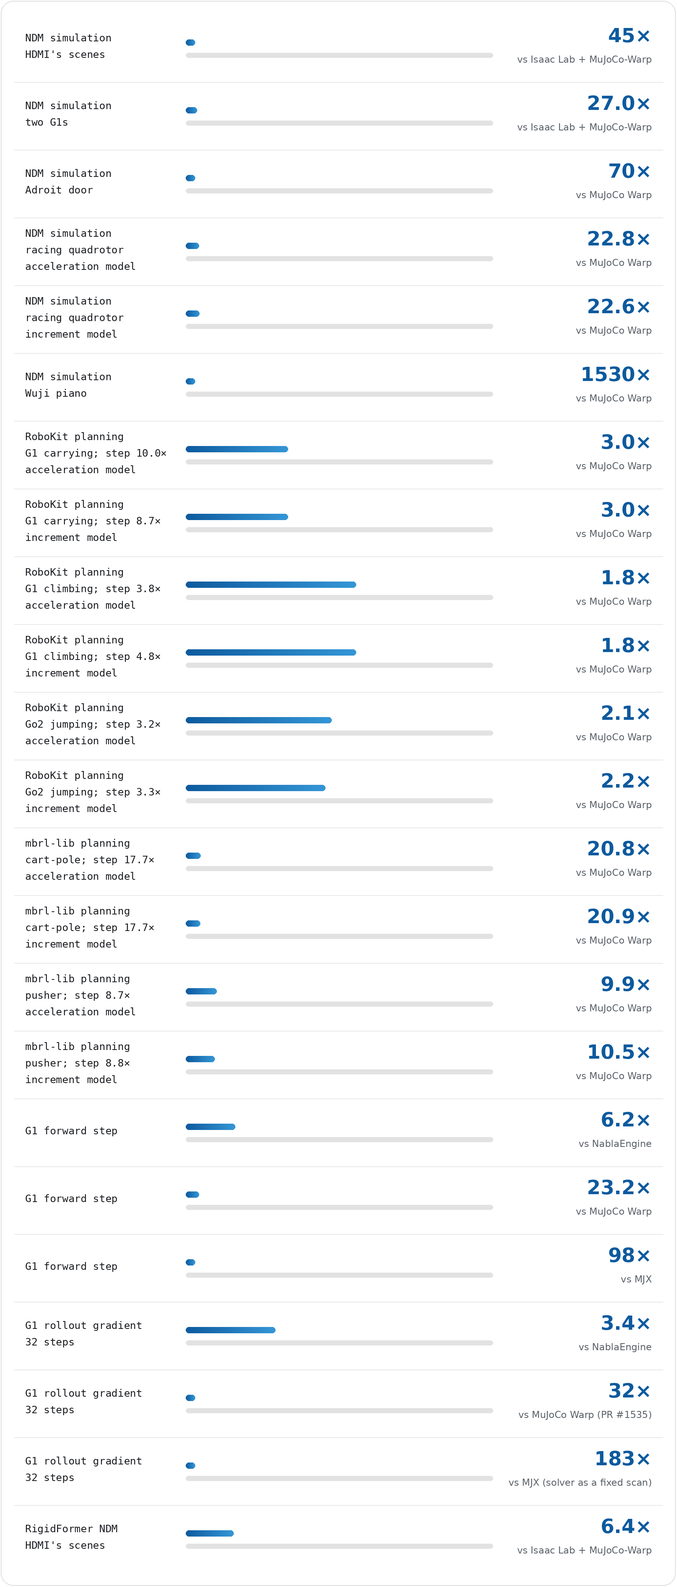
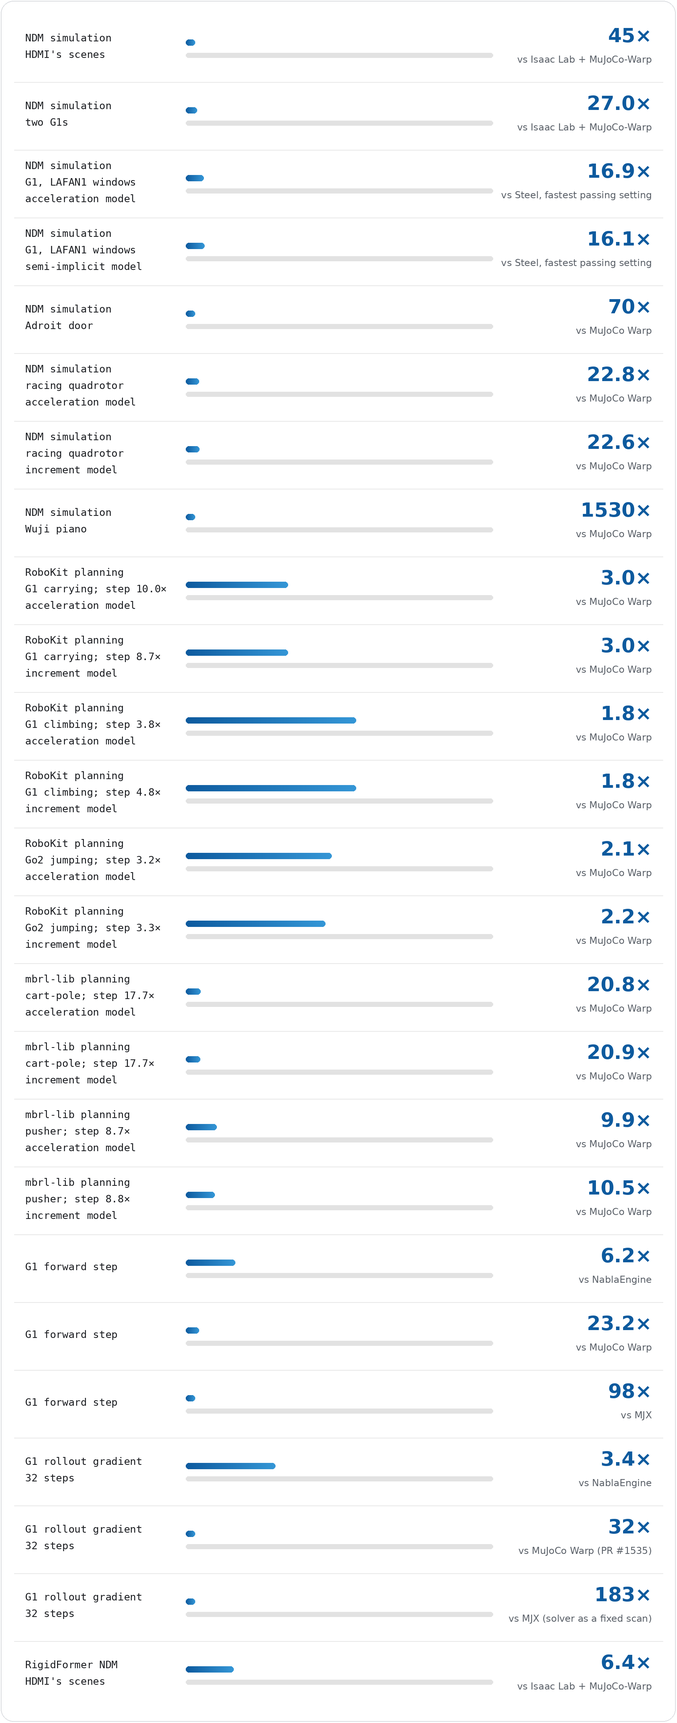
Steel: the G1's world models against Steel and MuJoCo Warp on one and four A100s. benchmarks/steel/results.md: every row's median and range with the body error beside it, the largest batches, four GPUs, where the time goes, the setup, and how to reproduce it with the weights on Hugging Face and thei

diff --git a/tools/make_speedup_chart.py b/tools/make_speedup_chart.py
@@ -9,7 +9,9 @@ import sys
 from PIL import Image, ImageDraw, ImageFont
 
 FONT_DIR = "/usr/share/fonts/truetype/dejavu/"
-# (label, second line, speedup, baseline): 4,096 parallel worlds in every row (benchmarks/ndm_speed/results.md, benchmarks/g1_boxing/results.md)
+# (label, second line, speedup, baseline): 4,096 parallel worlds in every row (benchmarks/ndm_speed/results.md, benchmarks/g1_boxing/results.md;
+# the G1 on LAFAN1's replay windows: SuperTrack's acceleration MLP and SuperMimic's semi-implicit MLP as bf16 copies with the fused step
+# against Steel's fastest setting that passes the accuracy criteria, medians of three runs, benchmarks/steel/results.md)
 # but the Adroit door's, at 16,384 worlds, SuperTrack's model as a bf16 copy against MuJoCo Warp (benchmarks/adroit_door/results_a100.md),
 # the racing quadrotor's: the fused step in fp32 with the network as one kernel, on the acceleration and on the increment model, against MuJoCo Warp
 # (benchmarks/quadrotor_racing_tracking/results_a100.md),
@@ -24,6 +26,8 @@ FONT_DIR = "/usr/share/fonts/truetype/dejavu/"
 ROWS = [
     ("NDM simulation", "HDMI's scenes", 45.3, "vs Isaac Lab + MuJoCo-Warp"),
     ("NDM simulation", "two G1s", 27.0, "vs Isaac Lab + MuJoCo-Warp"),
+    ("NDM simulation", "G1, LAFAN1 windows\nacceleration model", 16.9, "vs Steel, fastest passing setting"),
+    ("NDM simulation", "G1, LAFAN1 windows\nsemi-implicit model", 16.1, "vs Steel, fastest passing setting"),
     ("NDM simulation", "Adroit door", 69.7, "vs MuJoCo Warp"),
     ("NDM simulation", "racing quadrotor\nacceleration model", 22.8, "vs MuJoCo Warp"),
     ("NDM simulation", "racing quadrotor\nincrement model", 22.6, "vs MuJoCo Warp"),

diff --git a/benchmarks/steel/results.md b/benchmarks/steel/results.md
@@ -1,0 +1,222 @@
+# The G1's world models against Steel
+
+A world model steps a whole batch of robots with one network pass. A GPU rigid-body solver computes, for every world and
+every substep, the robot's kinematics and dynamics, its collisions and its contact constraints. On the Unitree G1
+replaying LAFAN1 tracking, at 4,096 worlds on one A100 40GB SXM4:
+
+- **Throughput.** The MLP world models of `lafan1-supertrack-accurate` and `lafan1-supermimic-accurate` step 14.80 M and
+  14.06 M control steps per second. That is 16.9x and 16.1x [Steel](https://www.skild.ai/blogs/steel) (Skild AI's solver in
+  Newton) at its fastest setting that passes the accuracy criteria below (0.875 M), and 42.4x and 40.2x MuJoCo Warp in
+  Isaac Lab, the task's simulator (0.349 M).
+- **Error.** After 32 control steps, their tracked bodies are 19.6 and 22.8 mm from the task's simulator, and Steel's are
+  30.2 mm.
+- **Where the time goes.** Steel spends 47.5 % of its kernel time on articulation dynamics, 25.9 % on collision and 20.3 %
+  on contact rows. The world models spend 80 % on the network.
+
+The world models learned from the task's simulator; Steel did not. Its error is its difference from that simulator.
+Skild AI's post reports Steel's speed against PhysX and MuJoCo Warp over 20 Isaac Lab tasks; this page measures one
+workload, with Steel's accuracy checked beside its speed.
+
+## One GPU
+
+Control steps per second over all worlds, in millions: the median of three runs, their range in parentheses. The body
+error is the tracked bodies' position error after 32 control steps, against the task's simulator.
+
+| row | body error | N = 1,024 | N = 4,096 | N = 16,384 | N = 65,536 |
+|---|---|---|---|---|---|
+| `lafan1-supertrack-accurate`'s world model (acceleration MLP), bf16 copy with the fused step | 19.6 mm | 5.18 (5.17–5.19) | 14.80 (14.79–14.84) | 23.42 (23.38–23.44) | 27.22 (27.20–27.31) |
+| `lafan1-supermimic-accurate`'s world model (semi-implicit MLP), bf16 copy with the fused step | 22.8 mm | 5.21 (5.19–5.28) | 14.06 (14.05–14.12) | 22.90 (22.88–22.94) | 27.05 (26.97–27.11) |
+| `lafan1-supertrack-accurate`'s world model, as trained (compiled) | 19.6 mm | 5.15 (5.10–5.23) | 13.32 (13.30–13.32) | 22.23 (22.21–22.24) | 26.77 (26.73–26.79) |
+| `lafan1-supermimic-accurate`'s world model, as trained (compiled) | 22.8 mm | 5.06 (5.03–5.15) | 11.98 (11.98–11.99) | 21.11 (21.09–21.11) | 26.25 (26.19–26.29) |
+| Steel, fastest passing setting (4 substeps, 1 iteration, its speed options) | 30.2 mm | 0.363 (0.363–0.363) | 0.875 (0.875–0.876) | 1.037 (1.037–1.037) | 1.015 (1.014–1.016) |
+| Steel at the task's physics (4 substeps, 12 iterations) | 24.9 mm | 0.076 (0.076–0.076) | 0.191 (0.191–0.191) | 0.282 (0.282–0.282) | 0.282 (0.282–0.283) |
+| Steel's G1 preset at a 20 ms step (1 substep, 2 iterations; fails the criteria) | 59.7 mm | 0.440 (0.440–0.440) | 1.055 (1.055–1.056) | 1.495 (1.494–1.495) | 1.391 (1.385–1.392) |
+| MuJoCo Warp 3.17 in Newton, on Steel's model at the task's settings | 0.20 mm | 0.170 (0.170–0.170) | 0.357 (0.357–0.357) | 0.473 (0.473–0.473) | 0.514 (0.513–0.514) |
+| MuJoCo Warp 3.15 in Isaac Lab 3, the task's simulator | the reference | 0.164 (0.164–0.164) | 0.349 (0.349–0.349) | 0.467 (0.467–0.467) | 0.513 (0.513–0.513) |
+
+The fastest paths against Steel's fastest passing setting / MuJoCo Warp in Isaac Lab, at equal N:
+
+| world model | N = 1,024 | N = 4,096 | N = 16,384 | N = 65,536 |
+|---|---|---|---|---|
+| `lafan1-supertrack-accurate` | 14.3x / 31.5x | 16.9x / 42.4x | 22.6x / 50.1x | 26.8x / 53.1x |
+| `lafan1-supermimic-accurate` | 14.4x / 31.7x | 16.1x / 40.2x | 22.1x / 49.0x | 26.6x / 52.8x |
+
+- **Steel against MuJoCo Warp.** Steel's fastest passing setting runs 2.0-2.5x MuJoCo Warp in Isaac Lab, its error after
+  32 steps 30.2 mm. At the task's physics, Steel runs 0.5-0.6x of it, with 24.9 mm.
+- **The two MLPs are close.** SuperTrack's is up to 5.3 % faster (4,096 worlds) and SuperMimic's 0.5 % faster at 1,024
+  worlds.
+
+## The largest batches
+
+From 131,072 worlds, the batch doubled until a run failed; medians in millions (range):
+
+| world model, fastest path | N = 131,072 | N = 262,144 | N = 524,288 | N = 1,048,576 | N = 2,097,152 |
+|---|---|---|---|---|---|
+| `lafan1-supertrack-accurate` | 27.95 (27.94–27.99) | 28.16 (28.13–28.17) | 28.16 (28.14–28.19) | 28.09 (28.08–28.11) | 28.00 (27.99–28.02) |
+| `lafan1-supermimic-accurate` | 27.59 (27.59–27.64) | 27.90 (27.89–27.91) | 27.95 (27.91–27.99) | 27.91 (27.89–27.92) | 27.83 (27.82–27.84) |
+
+Each row at its own peak:
+
+| row | peak (its N) | against Steel's peak | against MuJoCo Warp's peak |
+|---|---|---|---|
+| `lafan1-supertrack-accurate` | 28.16 M (524,288) | 27.2x | 54.9x |
+| `lafan1-supermimic-accurate` | 27.95 M (524,288) | 27.0x | 54.5x |
+| Steel, fastest passing setting | 1.037 M (16,384) | | 2.0x |
+| MuJoCo Warp in Isaac Lab | 0.513 M (65,536) | | |
+| MuJoCo Warp in Newton | 0.514 M (65,536) | | |
+
+- **The MLPs** ran up to 2,097,152 worlds, ending when the card's memory ran out (23.8 GB at that batch).
+- **Steel** ran up to 65,536 worlds, using 11.0 GB of the card. At 131,072 worlds, its run was killed while it built the
+  model on the host; each run had 24 GB of host memory.
+
+## Four GPUs
+
+16,384 worlds per GPU. Each GPU runs its own process; the processes time their 1,000 steps together. The total is the sum
+over the GPUs, in millions: the median of three runs (range). The ratio is the four-GPU total over four times one GPU.
+
+| row | one GPU | two GPUs | four GPUs | four / (4 × one) |
+|---|---|---|---|---|
+| `lafan1-supertrack-accurate`, fastest path | 22.56 (22.01–22.75) | 44.70 (44.45–45.24) | 89.24 (89.10–89.34) | 0.989 |
+| `lafan1-supermimic-accurate`, fastest path | 22.13 (21.92–22.25) | 43.82 (43.57–44.11) | 87.06 (86.69–87.34) | 0.984 |
+| Steel, fastest passing setting | 1.036 (1.035–1.036) | 2.067 (2.067–2.068) | 4.134 (4.133–4.135) | 0.998 |
+| MuJoCo Warp 3.17 in Newton | 0.472 (0.472–0.473) | 0.945 (0.944–0.945) | 1.891 (1.890–1.891) | 1.001 |
+
+Every row scales to four GPUs within 1.6 %. On four GPUs the MLPs step 21.6x and 21.1x Steel's fastest passing setting.
+
+## Where the time goes
+
+Kernel time per control step, from Nsight Systems traces (the CUDA graphs traced node by node), at 4,096 worlds and at each
+path's largest batch.
+
+Steel's fastest passing setting:
+
+| phase | N = 4,096 | share | N = 65,536 | share |
+|---|---|---|---|---|
+| collision (narrow phase, bounding boxes, broad phase), once per control step | 1.533 ms | 25.9 % | 8.704 ms | 13.3 % |
+| articulation dynamics (kinematics, inverse dynamics, drives, the mass matrix and its factor), 4 substeps | 2.806 ms | 47.5 % | 44.320 ms | 67.9 % |
+| contact rows (contact response, rows, bias, limits) | 1.197 ms | 20.3 % | 9.790 ms | 15.0 % |
+| the constraint sweep, 1 iteration | 0.262 ms | 4.4 % | 1.842 ms | 2.8 % |
+| integration | 0.056 ms | 0.9 % | 0.532 ms | 0.8 % |
+| status checks | 0.056 ms | 0.9 % | 0.113 ms | 0.2 % |
+| kernels, summed | 5.910 ms | | 65.300 ms | |
+| the step's wall time | 4.746 ms | | 64.637 ms | |
+
+The world models' fastest paths, ms per control step:
+
+| world model | N | input features | network | integration | the graph's input copies | kernels, summed | the step's wall time |
+|---|---|---|---|---|---|---|---|
+| `lafan1-supertrack-accurate` | 4,096 | 0.008 | 0.210 | 0.022 | 0.023 | 0.263 | 0.302 |
+| `lafan1-supermimic-accurate` | 4,096 | 0.008 | 0.222 | 0.024 | 0.023 | 0.277 | 0.321 |
+| `lafan1-supertrack-accurate` | 2,097,152 | 1.716 | 65.539 | 4.754 | 1.833 | 73.841 | 74.914 |
+| `lafan1-supermimic-accurate` | 2,097,152 | 1.721 | 65.675 | 5.028 | 1.832 | 74.257 | 75.519 |
+
+- **Steel's step is mostly articulation dynamics.** It takes 47.5 % of the kernel time at 4,096 worlds and 67.9 % at
+  65,536. Collision takes another quarter at 4,096 worlds. In the graph, independent kernels overlap, so at 4,096 worlds
+  their times sum to 124.5 % of the step.
+- **The world models' step is mostly the network:** 80 % at 4,096 worlds and 88-89 % at 2,097,152. At 4,096 worlds the
+  0.3 ms step also has idle gaps between its kernels (their times sum to 86-87 % of it), and the graph's input copies take
+  as long as the integration.
+
+## Setup
+
+- **GPUs.** A100 40GB SXM4, driver 565.57.01; one GPU for the one-GPU rows, four for the four-GPU rows, nothing else
+  running.
+- **Workload.** Replay windows of the G1 (29 DoF) tracking LAFAN1's 40 clips. They were recorded in the task's simulator
+  from SuperTrack's MLP policy, without randomization, pushes or action noise. Each world starts from a recorded state and
+  takes the recorded joint targets for 32 control steps of 20 ms; the world models take the recorded actions. Then the
+  next window starts. Feet go in and out of contact.
+- **Timing.**
+  - Each run: 20 warm-up control steps and 1 s of warm calls, then 200 timed control steps in segments of 32 (one window
+    each). Restarts between windows are not timed.
+  - Throughput is control steps per second over all worlds. Each row is three runs in fresh processes.
+  - Four-GPU rows: 1,000 timed steps per process.
+  - Steel's and MuJoCo Warp in Newton's control step is one CUDA graph; the world models run compiled, replayed as CUDA
+    graphs.
+- **Steel.** `SolverSteel` of Skild AI's Newton fork ([skild-ai/newton](https://github.com/skild-ai/newton) at
+  `baffc2a`, unmodified) with warp-lang 1.19.0.
+  - The G1 is imported by Newton's MJCF importer, with convex hulls for its meshes, joint limits on, self-collisions off,
+    friction 1.0 and the task's gains, armature and effort limits.
+  - Constraint capacities are sized from measured peaks. Every timed run had no dropped constraint row or contact, and
+    finite states.
+- **Steel's settings.**
+  - *At the task's physics:* 4 substeps of 5 ms, Steel's default 12 iterations, collision every substep.
+  - *Fastest passing:* the cheapest setting that passes the criteria, searched in the order of Steel's tuning guide. It
+    keeps 4 substeps and takes 1 iteration, point friction (`friction_anchor_beta=0`), `contact_gap_gate=0`,
+    `parallel_tree`, `reuse_kinematics` and `update_mass_matrix_interval=4`. It collides once per control step and merges
+    fixed joints at import.
+  - *G1 preset:* Steel's G1 example's 1 substep and 2 iterations, at the task's 20 ms step.
+- **Steel's criteria.** A setting counts if all of these hold:
+  - no dropped row or contact, and finite states;
+  - body errors after 8 and 32 steps at most 1.1x those of Steel at 32 substeps of 0.625 ms and 32 iterations;
+  - no more terminated windows than that setting, beyond two standard errors;
+  - foot penetration, mean and peak, at most the recording's.
+- **The merged inertia.** At this commit, Newton's merge of fixed joints adds a merged link's inertia about its frame
+  origin instead of its center of mass. Upstream Newton has since fixed this
+  ([newton-physics/newton#5280](https://github.com/newton-physics/newton/pull/5280)). The fastest passing setting merges
+  each fixed link into its parent (the torso takes the head, the logo and three sensor frames; the pelvis its contour link
+  and a sensor frame; each wrist its rubber hand), and its rows here use the fork as it is. A backport of the upstream fix
+  to Skild AI's fork is proposed in [skild-ai/newton#32](https://github.com/skild-ai/newton/pull/32). With the merged
+  inertia corrected, the fastest passing setting's error after 32 steps is 29.6 mm, from a separate check on an A100 40GB
+  SXM4 that is not part of the timed runs.
+- **MuJoCo Warp.**
+  - In Isaac Lab 3 (MuJoCo Warp 3.15): the task's simulator, as LAFAN1 training runs it, and the reference of every error.
+  - In Newton (MuJoCo Warp 3.17): on the same Newton model as Steel, at the task's solver settings.
+- **World models.** Each configuration's three 3 h runs (seeds 7-9). The speed rows time seed 7's world model; the
+  errors are the mean over the three seeds' world models as trained.
+  - Fastest path: a bf16 copy with the fused integration.
+  - Each path is compared with the model on the GPU before it is timed.
+- **Errors.** Means over the 8,192 windows of one recording (seed 1). The two other recordings give errors within 1.9 mm
+  of these.
+
+## Reproducing
+
+- **This repository** with Isaac Lab 3 (`bash scripts/setup.sh`), the G1 description and LAFAN1's clips
+  (`tools/download_data.sh`, which also writes the G1's MJCF, `data/g1_description/g1_29dof.xml`, and the USD that Isaac Lab
+  reads, `data/g1_usd`), and the two-G1 task's clip
+  (`tools/convert_interhuman.py`), which `speed_pair.py --pair` reads; with `--replay` only its first frame is used.
+- **Steel** in a separate Python 3.12 environment, with Skild AI's Newton fork at the commit timed here:
+
+  ```bash
+  python3.12 -m venv steel
+  steel/bin/pip install "newton[sim,importers] @ git+https://github.com/skild-ai/newton.git@baffc2abb2e101549f8eb797a2adc1645390c566" warp-lang==1.19.0
+  ```
+
+  The timed runs used warp-lang 1.19.0's CUDA 12 build (`1.19.0+cu12`), which their driver (565.57.01) required.
+- **The world models and the recording's policy** are on [Hugging Face](https://huggingface.co/frankzydou/ndm-gym)
+  (non-commercial use, as LAFAN1): the 3 h runs of `lafan1-supertrack-accurate` and `lafan1-supermimic-accurate`,
+  seeds 7-9, and the SuperTrack MLP policy that recorded the windows. The speed rows time seed 7's world models; the errors
+  average seeds 7-9. The configurations can also be trained again (`ndm-train --config ...`, the README's
+  [Recommended settings](../../README.md#-recommended-settings)).
+
+  ```bash
+  hf download frankzydou/ndm-gym --include "g1_lafan1_tracking/*-mlp-*/*" --local-dir weights   # the three folders below
+  ```
+
+  | file in `g1_lafan1_tracking/` | size (bytes) | sha256 |
+  |---|---|---|
[7 lines of base64/hex data omitted]
+
+- **The runs** (`benchmarks/steel/run.sh`; its header lists every variable):
+
+  ```bash
+  export STEEL_PY=steel/bin/python MAIN_PY=python PAIR=data/interhuman/interhuman_1566.npz
+  W=weights/g1_lafan1_tracking
+  export POLICY=$W/supertrack-mlp-recording/seed7.pt CK_ST=$W/supertrack-mlp-accurate/seed7.pt CK_SM=$W/supermimic-mlp-accurate/seed7.pt
+  bash benchmarks/steel/run.sh record out                # the recording and its 8,192 windows of 32 steps
+  bash benchmarks/steel/run.sh accuracy out              # the errors against the recording, and Steel's criteria
+  bash benchmarks/steel/run.sh one out                   # one GPU: every row, three runs each, then the largest batches
+  GPUS="0 1 2 3" bash benchmarks/steel/run.sh four out   # one, two and four GPUs, started together
+  TRACE_N=65536 bash benchmarks/steel/run.sh traces out  # Nsight Systems traces and the time per phase
+  python benchmarks/steel/table.py out                   # the tables above
+  ```
+
+- **Not distributed:** the recording and its windows (they come from LAFAN1's motions; `run.sh record` makes them again).
+- **One change since the timed runs:** the four-GPU runs used an earlier barrier that could start the processes a few
+  milliseconds apart. The barrier here writes a single start. A process times only its own steps, so a skew could only
+  shorten the time the processes overlap.

diff --git a/README.md b/README.md
@@ -62,12 +62,25 @@ MuJoCo model.
 <p align="center"><img src="docs/media/speedups.webp" alt="Speedups of the neural dynamics models against physics simulators, and of RoboKit's and mbrl-lib's planning on them" width="760"/></p>
 <p align="center"><sub>Bars: time per step on the same task, the baseline's at full width, at 4,096 parallel worlds (the Adroit door's: 16,384); the planners' rows: planning time. Made by <code>tools/make_speedup_chart.py</code>.</sub></p>
 
+**Why a world model steps faster than a rigid-body solver** (the G1 at 4,096 worlds on one A100 40GB SXM4,
+[results](benchmarks/steel/results.md)):
+
+- A world model's step is one network pass over the batch. The network is 80 % of its kernel time, and the step takes
+  0.28 and 0.29 ms (SuperTrack's and SuperMimic's MLP world models).
+- A solver's step is the robot's dynamics and contacts. [Steel](https://www.skild.ai/blogs/steel) (Skild AI), at its
+  fastest setting that passes the accuracy criteria, spends 47.5 % of its kernel time on articulation dynamics, 25.9 % on
+  collision and 20.3 % on contact rows: 4.68 ms a step.
+- So the world models step 16.9x and 16.1x faster than Steel there, and 42.4x and 40.2x faster than MuJoCo Warp in Isaac
+  Lab. After 32 steps their body errors are 19.6 and 22.8 mm, Steel's 30.2 mm, against the task's simulator, which the world
+  models learned from.
+
 <details>
 <summary>The chart's rows</summary>
 
 | rows | measure | GPU |
 |---|---|---|
 | NDM simulation: HDMI's scenes ([details](benchmarks/ndm_speed/results.md)), two G1s ([details](benchmarks/g1_boxing/results.md#speed)); the RigidFormer on HDMI's scenes | time per step at 4,096 worlds (two G1s: 4,096 pairs), the MLP world model's bf16 copy and the RigidFormer with fused Triton blocks; HDMI's scenes: the median of three tasks | HDMI's scenes: one H100; two G1s: one A100 80GB |
+| NDM simulation: the G1 on LAFAN1's replay windows, against Steel ([details](benchmarks/steel/results.md)) | control steps per second at 4,096 worlds: SuperTrack's acceleration MLP (`lafan1-supertrack-accurate`) and SuperMimic's semi-implicit MLP (`lafan1-supermimic-accurate`) as bf16 copies with the fused step, 14.80 M and 14.06 M, against Steel's fastest setting that passes the accuracy criteria, 0.875 M (16.9x, 16.1x); MuJoCo Warp in Isaac Lab 0.349 M (42.4x, 40.2x). On four GPUs 89.2 M and 87.1 M, Steel's 4.13 M. The network is 80 % of the world model's kernel time; articulation dynamics and collision are 73 % of Steel's | one A100 40GB SXM4 (four for the four-GPU numbers) |
 | NDM simulation: the Adroit door ([details](benchmarks/adroit_door/results_a100.md#the-world-model-as-the-simulator)) | world-steps per second at 16,384 worlds: SuperTrack's acceleration model as a bf16 copy, 27.62 M against MuJoCo Warp's 0.396 M (69.7x); SuperMimic's increment model 27.14 M against 0.422 M (64.3x); 1,629x / 1,600x the contributed native MuJoCo collector on eight CPU cores (16,962 world-steps/s). The bf16 step is 64 % / 66 % matrix products, the rest compiled elementwise kernels | one A100 40GB SXM4 |
 | NDM simulation: the racing quadrotor ([details](benchmarks/quadrotor_racing_tracking/results_a100.md#the-world-model-as-the-simulator)) | world-steps per second at 4,096 worlds, the fused step in fp32 (TF32 products) with the network as one kernel: SuperTrack's acceleration model 74.3 M against MuJoCo Warp's 3.26 M (22.8x); SuperMimic's increment model 73.7 M against 3.27 M (22.6x); with the network compiled layer by layer 19.6x / 19.0x. The network is 85 % of the step | one A100 40GB SXM4 |
 | NDM simulation: the Wuji piano ([details](benchmarks/wuji_piano/results_a100.md#the-world-model-as-the-simulator)) | world-steps per second at 4,096 worlds: the horizon-3 SuperTrack run's `PianoDynamics` with its networks in bf16 (compiled, one CUDA graph), 46.24 M against MuJoCo Warp's 30,213 for a control step of the full scene (1,530x; the four seed-0 models, both algorithms at both horizons, 1,523-1,530x). The model steps the policy's 192-number observed state; its due-key error is 0.15 / 0.19 / 0.26 of a key's travel at 1 / 3 / 10 steps, the horizon-3 SuperMimic model's 0.16 / 0.19 / 0.32 | one A100 40GB SXM4 |
@@ -124,6 +137,7 @@ re-verified on an A100. Commands: [Recommended settings](#-recommended-settings)
 | **[NDM as the simulator](#adroit-door-tracking)**, the Adroit door, 16,384 worlds on an A100 40GB SXM4 | 🚀 fastest | SuperTrack's acceleration model and SuperMimic's increment model, MLPs as bf16 copies, level | **27.62 M** and **27.14 M world-steps/s**, 69.7x and 64.3x MuJoCo Warp, which was timed beside each model on that model's states (0.396 M and 0.422 M), 1,629x and 1,600x the contributed collector on eight CPU cores; at 4,096 worlds 20.85 M and 21.55 M ([results](benchmarks/adroit_door/results_a100.md#the-world-model-as-the-simulator)) |
 | **[NDM as the simulator](#quadrotor-trajectory-tracking)**, the racing quadrotor, 4,096 worlds on an A100 40GB SXM4 | ⏱ throughput, not engineered | SuperTrack's acceleration model and SuperMimic's increment model, MLPs, the fused step in fp32, the network as one kernel | **74.3 M** and **73.7 M world-steps/s**, 22.8x and 22.6x MuJoCo Warp's 3.26 M / 3.27 M; 34.2x / 34.1x at 1,024 worlds, 11.5x at 65,536 ([results](benchmarks/quadrotor_racing_tracking/results_a100.md#the-world-model-as-the-simulator)) |
 | **[NDM as the simulator](#wuji-hand-piano-playing)**, the Wuji piano, 4,096 worlds on an A100 40GB SXM4 | ⏱ throughput, not engineered | the task's `PianoDynamics`, its networks in bf16 (both algorithms' models within 1 %) | **46.2 M world-steps/s**, 1,530x MuJoCo Warp's 30,213 for a control step of the full scene; the model steps only the policy's 192-number observed state, a due key's depth off by 0.15 / 0.19 / 0.26 of its travel at 1 / 3 / 10 steps (SuperTrack's horizon-3 model; SuperMimic's 0.16 / 0.19 / 0.32; the lowest of the four seed-0 models, SuperMimic's horizon-8 one, 0.09 / 0.10 / 0.13) ([results](benchmarks/wuji_piano/results_a100.md#the-world-model-as-the-simulator)) |
+| **[NDM as the simulator](#ndms-against-steel-the-g1)**, the G1 on LAFAN1's replay windows, 4,096 worlds on an A100 40GB SXM4 | 🚀 fastest | SuperTrack's acceleration model and SuperMimic's semi-implicit model (`lafan1-supertrack-accurate`, `lafan1-supermimic-accurate`), MLPs as bf16 copies with the fused step | **14.80 M** and **14.06 M control steps/s**, 16.9x and 16.1x Steel's fastest setting that passes the accuracy criteria (0.875 M), 42.4x and 40.2x MuJoCo Warp in Isaac Lab (0.349 M); body error after 32 steps 19.6 and 22.8 mm, Steel's 30.2 mm; on four GPUs 89.2 M and 87.1 M, Steel's 4.13 M ([results](benchmarks/steel/results.md)) |
 | **[NDM as the simulator](#ndms-as-simulators-hdmis-scenes)**, HDMI's move_suitcase, 4096 worlds on an H100 | ⏱ throughput, not engineered | the MLP world model (acceleration parameterization) as a bf16 copy | **16.28 M env-steps/s**, 45.9x the physics engine's 0.35 M; RigidFormer 2.30 M, 6.5x; the increment parameterization was not timed ([results](benchmarks/ndm_speed/results.md)) |
 
 [NablaMimic](docs/algorithms/nablamimic.md) (∇Mimic) trains through a differentiable simulator, without a world model.
@@ -197,7 +211,9 @@ What the experiments showed (details under [Ablations](#-ablations) and [Trainin
   generalized coordinates (`ndm_gym/worldmodels/mjcf.py`).
 - **[2026-11] NDMs as simulators:** [throughput against physics](benchmarks/ndm_speed/results.md); SuperTrack's MLP world
   model of the G1 [against differentiable simulators](benchmarks/ndm_speed/results.md#differentiable-simulators-and-the-g1-world-models),
-  its forward step 3.5-116x and its rollout gradient 2.4-183x faster (1,024-16,384 worlds, A100 40GB).
+  its forward step 3.5-116x and its rollout gradient 2.4-183x faster (1,024-16,384 worlds, A100 40GB); the G1's world
+  models [against Steel](#ndms-against-steel-the-g1), 16.9x and 16.1x its fastest passing setting at 4,096 worlds on an
+  A100 40GB (SuperTrack's and SuperMimic's MLPs).
 - **[2026-11] NDMs in planners:** a world model scores the planner's candidates in place of the physics steps. On an
   A100, three of [RoboKit's](#ndms-in-robokits-planner) examples (G1 box carrying, G1 climbing, Go2 jumping) plan
   1.8-3.0x faster than on MuJoCo Warp, every plan passing, and [mbrl-lib's](#ndms-in-mbrl-libs-planner) cart-pole and
@@ -243,6 +259,7 @@ What the experiments showed (details under [Ablations](#-ablations) and [Trainin
   pusher, planned on world models.
 - **NDMs as simulators:** throughput and open-loop accuracy against physics on HDMI's scenes, with fused Triton inference
   kernels; the G1's step and rollout gradient against differentiable simulators ([results](benchmarks/ndm_speed/results.md));
+  the G1's world models against Steel and MuJoCo Warp, on one and four GPUs ([results](benchmarks/steel/results.md));
   world models inside RoboKit's and mbrl-lib's planners ([RoboKit](benchmarks/robokit_ndm/results.md),
   [mbrl-lib](benchmarks/mbrl_lib/results.md)).
 - **Evaluation:** tracking errors on every clip, push robustness, held-out clips (`--clips`), side-by-side videos and an
@@ -516,6 +533,9 @@ the difference, bold where they exclude 0.
 | failed clips under root pushes of 1 m/s every 2 s | 2.0 ± 0.0 | 2.3 ± 0.6 | -0.3 [-1.8, 1.1] |
 | failed clips under root pushes of 2 m/s every 2 s | 15.7 ± 3.5 | 11.7 ± 0.6 | +4.0 [-4.4, 12.4] |
 | iterations in 3 h | 63,200-63,393 | 66,837-67,208 | |
+
+Checkpoints of these runs: [Hugging Face](https://huggingface.co/frankzydou/ndm-gym) (`g1_lafan1_tracking/supertrack-mlp-accurate/`,
+`supermimic-mlp-accurate/`; non-commercial use, as LAFAN1).
 
 The table below: the configurations selected by the tuning rounds (SuperMimic's with action noise 0.3), seeds 1-3, 3 h
 on one A100 without the speed options; mean ± std over seeds, each seed the average of three standard evaluations (push
@@ -1331,6 +1351,33 @@ One H100 80GB, 4096 environments, million env-steps per second, the ratio to phy
 | open_door-feet | 0.44 | 16.47 (37.1x) | 2.31 (5.2x) |
 | truman | 0.36 | 16.21 (45.3x) | 2.30 (6.4x) |
 
+### NDMs against Steel (the G1)
+
+A world model steps the G1 in place of a rigid-body solver: [Steel](https://www.skild.ai/blogs/steel) (Skild AI's GPU solver
+in Newton) and MuJoCo Warp, on replay windows of LAFAN1 tracking (32 control steps of 20 ms from recorded states).
+Steel's fastest passing setting is the cheapest that passes accuracy criteria set by Steel's own most exact setting and the
+recording ([criteria](benchmarks/steel/results.md#setup)).
+
+| goal | configuration | result |
+|---|---|---|
+| fastest | SuperTrack's acceleration model and SuperMimic's semi-implicit model (`lafan1-supertrack-accurate`, `lafan1-supermimic-accurate`), MLPs as bf16 copies with the fused step | 14.80 M and 14.06 M control steps/s at 4,096 worlds, 16.9x and 16.1x Steel's fastest passing setting, 42.4x and 40.2x MuJoCo Warp in Isaac Lab; peaks 28.16 M and 27.95 M at 524,288 worlds; 89.2 M and 87.1 M on four GPUs (A100 40GB SXM4, medians of three runs) |
+
+**In short:** at 4,096 worlds on one A100, the MLP world models step the G1 16-17x faster than Steel's fastest passing
+setting and 40-42x faster than MuJoCo Warp. Their step is one network pass; Steel's is mostly articulation dynamics and
+collision.
+
+One A100 40GB SXM4, 4,096 worlds, control steps per second (median of three runs), and the body position error after 32
+steps against the task's simulator, which the world models learned from ([details](benchmarks/steel/results.md)):
+
+| row | control steps/s | body error |
+|---|---|---|
+| `lafan1-supertrack-accurate`'s world model, bf16 copy with the fused step | 14.80 M | 19.6 mm |
+| `lafan1-supermimic-accurate`'s world model, bf16 copy with the fused step | 14.06 M | 22.8 mm |
+| Steel, fastest passing setting (4 substeps, 1 iteration, its speed options) | 0.875 M | 30.2 mm |
+| Steel at the task's physics (4 substeps, 12 iterations) | 0.191 M | 24.9 mm |
+| MuJoCo Warp 3.17 in Newton, on Steel's model | 0.357 M | 0.20 mm |
+| MuJoCo Warp 3.15 in Isaac Lab 3, the task's simulator | 0.349 M | the reference |
+
 ### NDMs in RoboKit's planner
 
 [RoboKit](https://github.com/openrobokit/robokit)'s sampling MPC plans on the world model of the example's MuJoCo model,
@@ -1514,6 +1561,7 @@ The documentation site: [frank-zy-dou.github.io/ndm-gym](https://frank-zy-dou.gi
 | [`benchmarks/g1_boxing/`](benchmarks/g1_boxing/) | two G1s tracking a two-person clip: tracking and speed |
 | [`benchmarks/musclevae/results.md`](benchmarks/musclevae/results.md) | the muscle-actuated character: setup, tuning and results |
 | [`benchmarks/ndm_speed/`](benchmarks/ndm_speed/) | NDMs as simulators: throughput and accuracy against physics on HDMI's scenes; the G1 against differentiable simulators |
+| [`benchmarks/steel/results.md`](benchmarks/steel/results.md) | the G1's world models against Steel and MuJoCo Warp: throughput on one and four GPUs, per-phase time, errors |
 | [`benchmarks/xhand_tracking/`](benchmarks/xhand_tracking/) | hand-object tracking on the XHand, the Allegro hand and the Inspire hand: tasks and results |
 | [`benchmarks/quadrotor_racing_tracking/`](benchmarks/quadrotor_racing_tracking/) | a racing quadrotor on Race Against the Machine's flights: tasks and results |
 | [`benchmarks/robokit_ndm/`](benchmarks/robokit_ndm/results.md) | RoboKit's planner on a world model: setup, step and planning times, commands |
@@ -1688,6 +1736,9 @@ Simulation and planning:
   the differentiable-simulator comparison
 - **Newton:** The Newton Contributors. *Newton: GPU-accelerated physics simulation for robotics and simulation research.*
   2025. [code](https://github.com/newton-physics/newton)
+- **Steel** (timed beside the G1's world models): Skild AI. *Steel: Scaling Simulation Across Robots, Tasks, and Worlds.*
+  2026. [post](https://www.skild.ai/blogs/steel) · [code](https://github.com/skild-ai/newton) (Skild AI's Newton fork,
+  run at `baffc2a`) · [documentation](https://github.com/skild-ai/steel)
 - **∇Mimic** and its simulator **NablaEngine** (the differentiable-simulator comparison; ∇Mimic's own code timed on
   LAFAN1): W. Lu, Y. Chen. *∇Mimic: Ultra-Efficient Humanoid Control with Differentiable Simulation.* arXiv preprint, 2026.
   [arXiv:2610.41654](https://arxiv.org/abs/2610.41654) · [code](https://github.com/sailab-ai/NablaMimic) ·
@@ -1734,7 +1785,8 @@ MIT ([`LICENSE`](LICENSE)).
   options are ported from [BlinkMimic](https://github.com/fuyichen0725/blinkmimic) (MIT, Fuyi Chen), derived from
   [InstantTrack](https://github.com/Huy-Quang-Dao/instantTrack) (MIT, Huy-Quang-Dao); their notices are in the ported
   files and [`THIRD_PARTY_NOTICES.md`](THIRD_PARTY_NOTICES.md).
-- **Simulators:** Isaac Lab (BSD-3-Clause), Newton and MuJoCo Warp (Apache-2.0) are used unmodified.
+- **Simulators:** Isaac Lab (BSD-3-Clause), Newton, Steel (Skild AI's Newton fork) and MuJoCo Warp (Apache-2.0) are used
+  unmodified.
 - **LAFAN1:** the motions (Ubisoft La Forge, CC BY-NC-ND 4.0) and their G1 retargets (Hugging Face
   [lvhaidong/LAFAN1_Retargeting_Dataset](https://huggingface.co/datasets/lvhaidong/LAFAN1_Retargeting_Dataset)), which
   stay under that license, are downloaded by `tools/download_data.sh` and not redistributed.

diff --git a/docs/coverage.md b/docs/coverage.md
@@ -43,7 +43,7 @@ this repository yet.
 | MuJoCo | [google-deepmind/mujoco](https://github.com/google-deepmind/mujoco) | models, CPU simulation; MJX in the differentiable-simulator comparison |
 | MuJoCo Warp | [google-deepmind/mujoco_warp](https://github.com/google-deepmind/mujoco_warp) | GPU simulation; the baseline of the speed comparisons |
 | Newton | [newton-physics/newton](https://github.com/newton-physics/newton) | MuscleVAE's simulation; MimicKit's *(ongoing)* |
-| Steel (Skild AI) | [skild-ai/steel](https://github.com/skild-ai/steel), [skild-ai/newton](https://github.com/skild-ai/newton) | Newton's `SolverSteel`: timed beside world models, and a simulation backend *(ongoing)* |
+| Steel (Skild AI) | [skild-ai/steel](https://github.com/skild-ai/steel), [skild-ai/newton](https://github.com/skild-ai/newton) | Newton's `SolverSteel`: timed beside the G1's world models ([results](../benchmarks/steel/results.md)); a simulation backend *(ongoing)* |
 | NablaEngine | [sailab-ai/NablaEngine](https://github.com/sailab-ai/NablaEngine) | differentiable simulator in the speed comparison |
 | Genesis | [Genesis-Embodied-AI/genesis-world](https://github.com/Genesis-Embodied-AI/genesis-world) | timed beside the differentiable simulators; Eden's simulator *(ongoing)* |
 | SPlisHSPlasH | [InteractiveComputerGraphics/SPlisHSPlasH](https://github.com/InteractiveComputerGraphics/SPlisHSPlasH) | fluid ground truth for CFC *(ongoing)* |

diff --git a/docs/index.md b/docs/index.md
@@ -8,7 +8,8 @@ motion tracking, two G1s on a two-person clip, HDMI's human-object interaction (
 and the Inspire hand, a racing quadrotor tracking flown trajectories, a Unitree Go2 tracking a dog's motion capture and two
 Wuji hands playing the piano (all four MuJoCo-Warp), and the Adroit hand tracking DAPG's door, pen, hammer and relocate
 demonstrations (MuJoCo on the CPU). The neural dynamics models (NDMs) also serve as simulators, for instance in RoboKit's MPC
-planner and mbrl-lib's CEM planner.
+planner and mbrl-lib's CEM planner. On the G1 they step 16-17x faster than Steel's fastest passing setting and 40-42x faster
+than MuJoCo Warp at 4,096 worlds on an A100 ([results](../benchmarks/steel/results.md)).
 
 - [Leaderboard](leaderboard.md): each task's fastest and most accurate configuration, and the named configurations.
 - [Algorithms](algorithms.md): SuperTrack, SuperMimic and BlinkMimic's recipe (`--algo blinkmimic`);

diff --git a/docs/tasks/lafan1.md b/docs/tasks/lafan1.md
@@ -12,4 +12,5 @@ ndm-eval --run_dir logs/st --watch
 ```
 
 Selected configurations and results: [README](../../README.md#lafan1-motion-tracking), [`results.md`](../../benchmarks/g1_lafan1_tracking/results.md),
-[ablations](../../benchmarks/g1_lafan1_tracking/ablations.md).
+[ablations](../../benchmarks/g1_lafan1_tracking/ablations.md). The world models as the simulator, timed against Steel and
+MuJoCo Warp: [results](../../benchmarks/steel/results.md).
